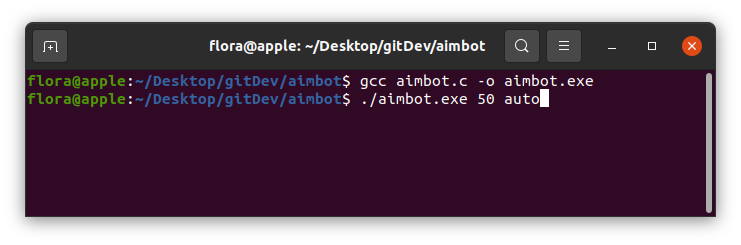
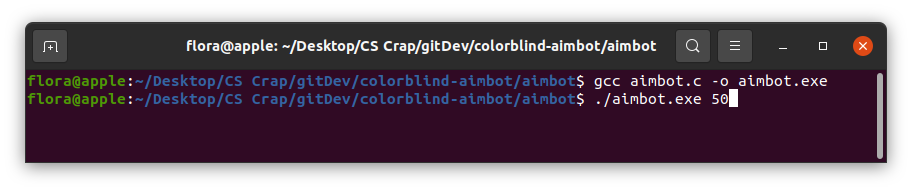
new compiling instructions

Changed region(s): [[0.0, 0.0785, 0.9933, 0.9162]]

diff --git a/aimbot/aimbot.c b/aimbot/aimbot.c
@@ -14,7 +14,7 @@ By Flora Afroza
 #include <curses.h>
 
 
-int *is_running, *auto_mode, *shooting_frequency;
+int *is_running, *auto_shooting_frequency;
 unsigned char *opponent_color;
 
 
@@ -27,53 +27,33 @@ unsigned char *opponent_color;
     }
 
     void set_shooting_frequency(double shots_per_minute) {
-        *shooting_frequency = shots_per_minute;
+        *auto_shooting_frequency = shots_per_minute;
     }
 
     void target_opponent() {       // cursor functions here
 
     }
 
-    void enable_auto_shoot() {      // May enable auto-shooting at the begining of runtime
-        *auto_mode = 1;
-    }
-
     void toggle_state(int *state) {
         *state = abs(*state - 1);
     }
 
-/*
-    void toggle_auto_shooting() {       // Toggled via hot-key shortcut
-        *auto_mode = abs(*auto_mode - 1);
-    }
-
-    void toggle_aimbot() {      // Toggled via hot-key shortcut
-        *is_running = abs(*is_running - 1);
-    }
-*/
 
 int main(int argc, char *argv[]) {
 
-    auto_mode = malloc(sizeof(int));
-    *auto_mode = 0;
     is_running = malloc(sizeof(int));
+    *is_running = 1;
 
-    shooting_frequency = malloc(sizeof(int));
-    *shooting_frequency = 50;   // default
+    auto_shooting_frequency = malloc(sizeof(int));
+    *auto_shooting_frequency = 0;   // 0 means manual mode
 
     if(argc > 0) {
         set_shooting_frequency(atoi(argv[0]));
-        if(argc > 1) {
-            if(argv[1] == "auto") {
-                enable_auto_shoot();
-            }
-        }
     }
     
 
     free(is_running);
-    free(auto_mode);
-    free(shooting_frequency);
+    free(auto_shooting_frequency);
 
     return 0;
 }

diff --git a/README.md b/README.md
@@ -1,7 +1,5 @@
 
-The tool that will make your opponents hate you. It's an aimbot designed as a color-detection tool to help target opponents in first person style shooter games. 
-
-Users can set instructions via command-line 
+The tool that will make your opponents hate you. It's an aimbot designed as a color-detection tool to help target opponents in first person style shooter games.Users can set instructions via command-line.
 
 ![](compiling_instructions.png)
 
